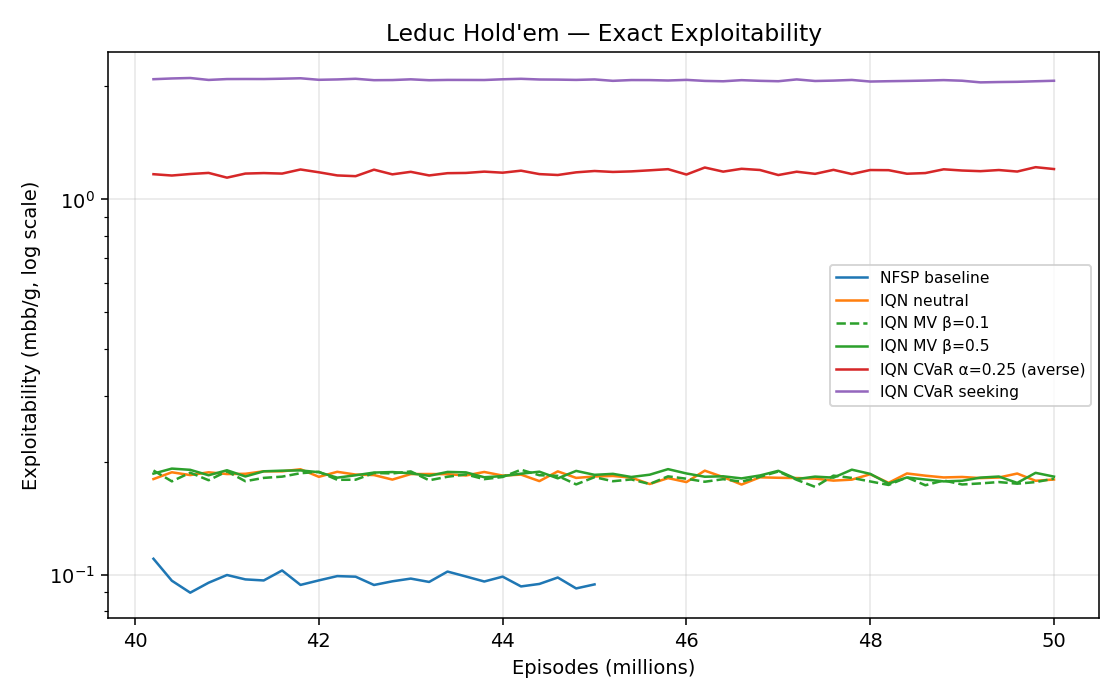
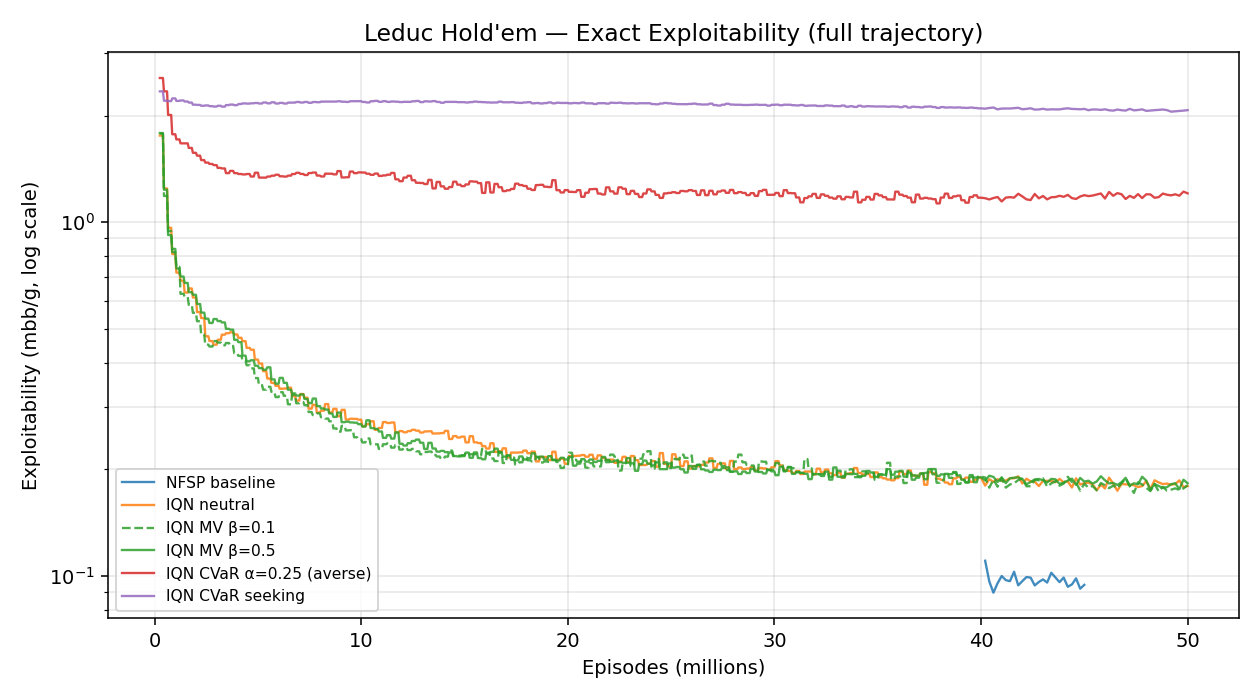
Leduc exploitability plots: include 0→40M trajectory from log files
Prior plots only showed 40M→50M because they read the CSV, which was
only written during the resumed training segment. The log files have
inline `exploit=X.X` values from ~ep 250K onwards. Combine log (pre-40M)
+ CSV (post-40M) for a full 0→50M trajectory for IQN variants.

Baseline's log was truncated on resume so it still only shows 40M→45M.

diff --git a/cpp-implementation/scripts/make_plots.py b/cpp-implementation/scripts/make_plots.py
@@ -29,8 +29,8 @@ EP_LINE = re.compile(r"\[Ep\s+(\d+)/\s*\d+\]\s+avg_r=\s*([-\d.]+)\s+\|\s+(?:h2h|
 H2H_LINE = re.compile(r">>> H2H WINRATE @ ep\s+(\d+):\s+([-\d.]+)")
 
 def parse_log(path):
-    """Return dict with np arrays: episodes, avg_r, h2h_inline, br_loss, avg_loss, h2h_ep, h2h_val."""
-    eps, ar, h2h_inline, br, av = [], [], [], [], []
+    """Return dict with np arrays: eps, avg_r, inline (h2h or exploit), br_loss, avg_loss, h2h_ep, h2h_val."""
+    eps, ar, inline, br, av = [], [], [], [], []
     h2h_ep, h2h_val = [], []
     with open(path) as f:
         for line in f:
@@ -38,7 +38,7 @@ def parse_log(path):
             if m:
                 eps.append(int(m.group(1)))
                 ar.append(float(m.group(2)))
-                h2h_inline.append(float(m.group(3)))
+                inline.append(float(m.group(3)))
                 br.append(float(m.group(4)))
                 av.append(float(m.group(5)))
                 continue
@@ -49,6 +49,7 @@ def parse_log(path):
     return {
         'eps': np.array(eps),
         'avg_r': np.array(ar),
+        'inline': np.array(inline),   # for Leduc this is exploit; for Hold'em it's h2h
         'br_loss': np.array(br),
         'avg_loss': np.array(av),
         'h2h_ep': np.array(h2h_ep),
@@ -79,35 +80,74 @@ LEDUC_RUNS = [
     ('iqn_seeking', 'IQN CVaR seeking', 'C4', '-'),
 ]
 
+def leduc_full_trajectory(name):
+    """Combine 0-40M data from the log (inline `exploit=`) with 40M-50M data from CSV.
+
+    The logs have inline exploitability for IQN variants from ~ep 250K onwards. The CSV is
+    only the resumed-training segment (ep 40M onwards). Baseline log was truncated on
+    resume so we only have CSV data for it.
+
+    Returns np arrays (episodes, exploitability_mbb) or (None, None) if no data.
+    """
+    eps_log, val_log = np.array([]), np.array([])
+    log = LOGS / f'{name}.log'
+    if log.exists():
+        d = parse_log(log)
+        if len(d['eps']):
+            # Drop sentinel 999 (eval not yet computed)
+            mask = d['inline'] < 100
+            eps_log = d['eps'][mask]
+            val_log = d['inline'][mask]
+    eps_csv, val_csv = np.array([]), np.array([])
+    csv = CSVS / f'{name}_seed42_exploitability.csv'
+    if csv.exists():
+        eps_csv, val_csv = parse_expl_csv(csv)
+    # Concatenate. If both present, prefer the later CSV values when eps overlap.
+    if len(eps_log) == 0 and len(eps_csv) == 0:
+        return None, None
+    if len(eps_csv) == 0:
+        return eps_log, val_log
+    if len(eps_log) == 0:
+        return eps_csv, val_csv
+    # Keep log data < first CSV episode, then append CSV
+    cut = eps_csv.min()
+    mask = eps_log < cut
+    return np.concatenate([eps_log[mask], eps_csv]), np.concatenate([val_log[mask], val_csv])
+
+
 def plot_leduc():
-    # Exploitability
-    plt.figure(figsize=(8, 5))
+    # Exploitability (full 0 → 50M trajectory)
+    plt.figure(figsize=(9, 5))
     for name, label, color, ls in LEDUC_RUNS:
-        csv = CSVS / f'{name}_seed42_exploitability.csv'
-        if not csv.exists():
-            print(f'missing {csv}'); continue
-        ep, val = parse_expl_csv(csv)
-        plt.semilogy(ep/1e6, val, color=color, ls=ls, label=label, lw=1.3)
+        ep, val = leduc_full_trajectory(name)
+        if ep is None: print(f'no data for {name}'); continue
+        # Light downsample to avoid overplotting
+        if len(ep) > 1000:
+            step = max(1, len(ep) // 1000)
+            ep, val = ep[::step], val[::step]
+        plt.semilogy(ep/1e6, val, color=color, ls=ls, label=label, lw=1.2, alpha=0.85)
     plt.xlabel('Episodes (millions)')
     plt.ylabel('Exploitability (mbb/g, log scale)')
-    plt.title("Leduc Hold'em — Exact Exploitability")
+    plt.title("Leduc Hold'em — Exact Exploitability (full trajectory)")
     plt.legend(fontsize=8, loc='best')
-    plt.grid(alpha=0.3)
+    plt.grid(alpha=0.3, which='both')
     plt.tight_layout()
     plt.savefig(FIGS / 'leduc' / 'exploitability.png', dpi=140)
     plt.close()
     print(f'wrote {FIGS}/leduc/exploitability.png')
 
-    # Linear-scale version for clarity on converged values
-    plt.figure(figsize=(8, 5))
+    # Linear-scale (converged-zoom)
+    plt.figure(figsize=(9, 5))
     for name, label, color, ls in LEDUC_RUNS:
-        csv = CSVS / f'{name}_seed42_exploitability.csv'
-        if not csv.exists(): continue
-        ep, val = parse_expl_csv(csv)
-        plt.plot(ep/1e6, val, color=color, ls=ls, label=label, lw=1.3)
+        ep, val = leduc_full_trajectory(name)
+        if ep is None: continue
+        if len(ep) > 1000:
+            step = max(1, len(ep) // 1000)
+            ep, val = ep[::step], val[::step]
+        plt.plot(ep/1e6, val, color=color, ls=ls, label=label, lw=1.2, alpha=0.85)
     plt.xlabel('Episodes (millions)')
     plt.ylabel('Exploitability (mbb/g)')
-    plt.title("Leduc Hold'em — Exact Exploitability (linear)")
+    plt.title("Leduc Hold'em — Exact Exploitability (linear, full trajectory)")
     plt.legend(fontsize=8, loc='best')
     plt.grid(alpha=0.3)
     plt.ylim(0, 2.5)
